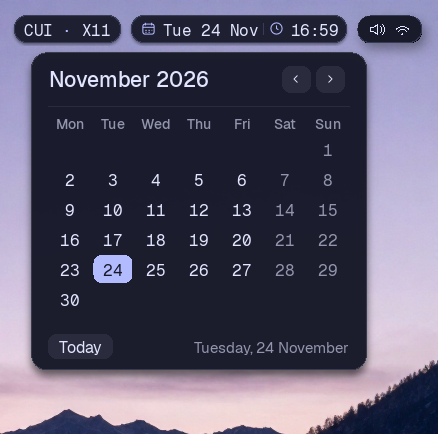
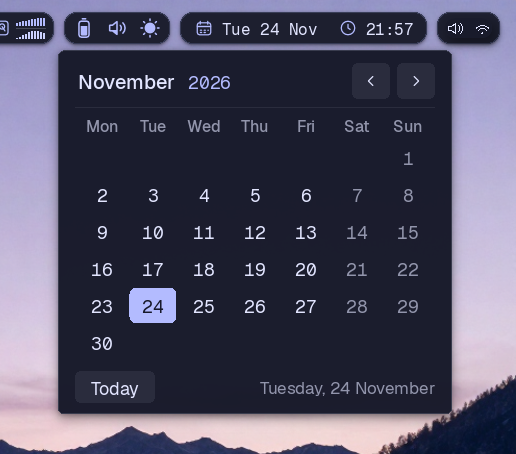
Refresh screenshots for mwm 0.2.0

diff --git a/README.md b/README.md
@@ -8,18 +8,21 @@ is driven at runtime through the `mwmc` client over a pure-X11 IPC channel
 
 ## Screenshots
 
-![mwm desktop with workspace tags, a matching system tray, and terminals showing mwmc and config.ini](docs/screenshots/desktop.webp)
+![mwm desktop with workspace tags, six activity indicators, a matching tray, and terminals showing mwmc and config.ini](docs/screenshots/desktop.webp)
 
-Geist and Geist Mono with an Xresources palette and a Runware-generated Alpine wallpaper.
+Geist and Geist Mono with an Xresources palette and a Runware-generated Alpine wallpaper. Network, disk, and battery readings include demonstration data.
 
 | Calendar | World clock and timer |
 | --- | --- |
-| ![Monthly calendar with today highlighted and arrows to change month](docs/screenshots/calendar.webp) | ![World clock with local time and three time zones above a timer form](docs/screenshots/world-clock.webp) |
-| Click the date to browse months. | Click the time to see configured time zones or set an alert. |
+| ![Monthly calendar with today highlighted and month and year selectors](docs/screenshots/calendar.webp) | ![World clock with four time zones and the timer disclosure expanded to show scrollable quick links](docs/screenshots/world-clock.webp) |
+| Click the date to open the calendar. | Click the time for world clocks, then expand Timer to set an alert. |
 
-![mwm command palette with a search field and a list of open windows and tags](docs/screenshots/command-palette.webp)
+![Month and year grids with a highlighted selection and paging arrows](docs/screenshots/calendar-pickers.webp)
 
-Open the palette with `mwmc palette` to find windows, jump to tags, or switch layouts.
+| Battery | Command palette |
+| --- | --- |
+| ![Battery panel showing charge percentage, discharge estimate, and the charge limit](docs/screenshots/battery.webp) | ![mwm command palette with a search field and a list of open windows and tags](docs/screenshots/command-palette.webp) |
+| Click the battery for charge and time remaining. | Open with `mwmc palette` to find windows, jump to tags, or switch layouts. |
 
 ## Features
 
